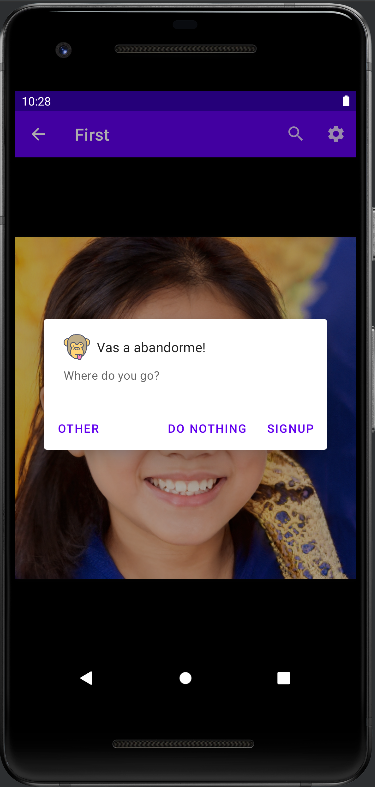
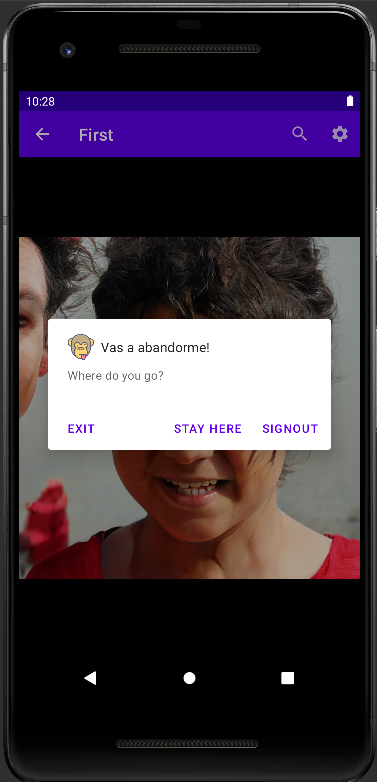
README change image and message signout

diff --git a/app/src/main/java/com/afernandezcar/first/Main.java b/app/src/main/java/com/afernandezcar/first/Main.java
@@ -70,7 +70,7 @@ public class Main extends AppCompatActivity {
 //        builder.setView(getLayoutInflater().inflate(R.layout.alertdialog_view, null));
 
         // add the buttons
-        builder.setPositiveButton("Signup", new DialogInterface.OnClickListener() {
+        builder.setPositiveButton("Signout", new DialogInterface.OnClickListener() {
             @Override
             public void onClick(DialogInterface dialog, int which) {
                 // do something like...
@@ -81,7 +81,7 @@ public class Main extends AppCompatActivity {
             }
         });
 
-        builder.setNegativeButton("Do nothing", new DialogInterface.OnClickListener() {
+        builder.setNegativeButton("Stay Here", new DialogInterface.OnClickListener() {
             @Override
             public void onClick(DialogInterface dialog, int which) {
 
@@ -91,7 +91,7 @@ public class Main extends AppCompatActivity {
             }
         });
 
-        builder.setNeutralButton("Other", new DialogInterface.OnClickListener() {
+        builder.setNeutralButton("Exit", new DialogInterface.OnClickListener() {
             @Override
             public void onClick(DialogInterface dialog, int which) {
 
